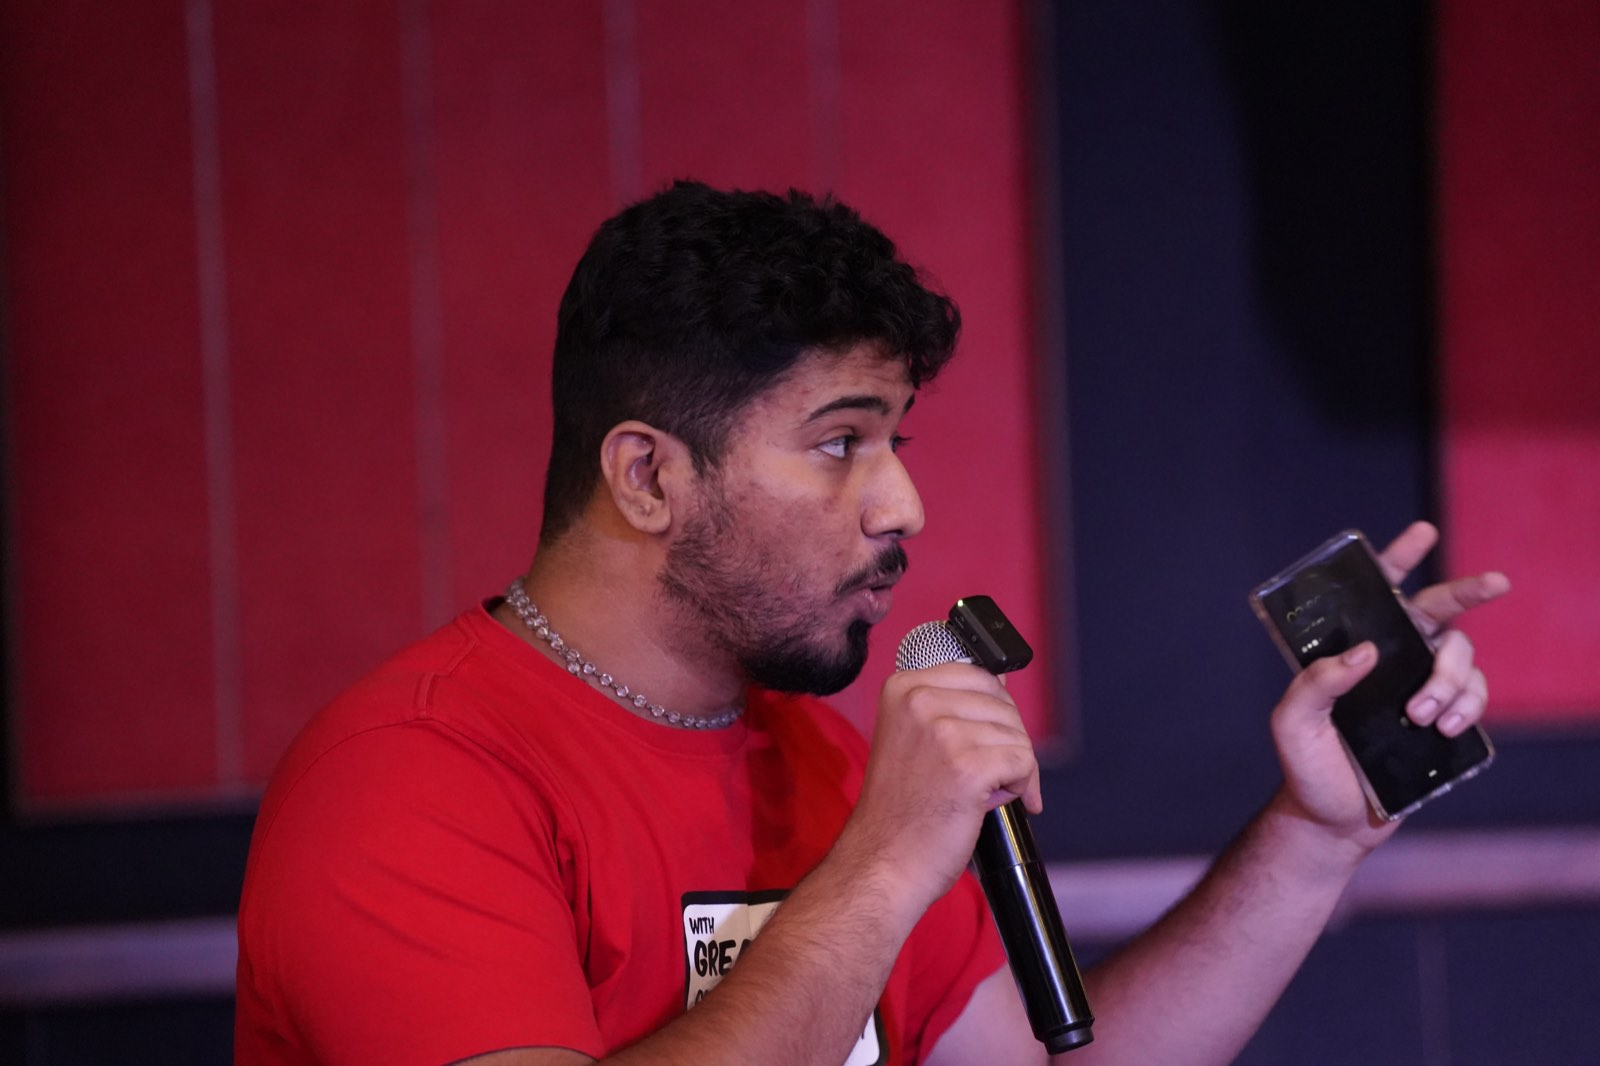
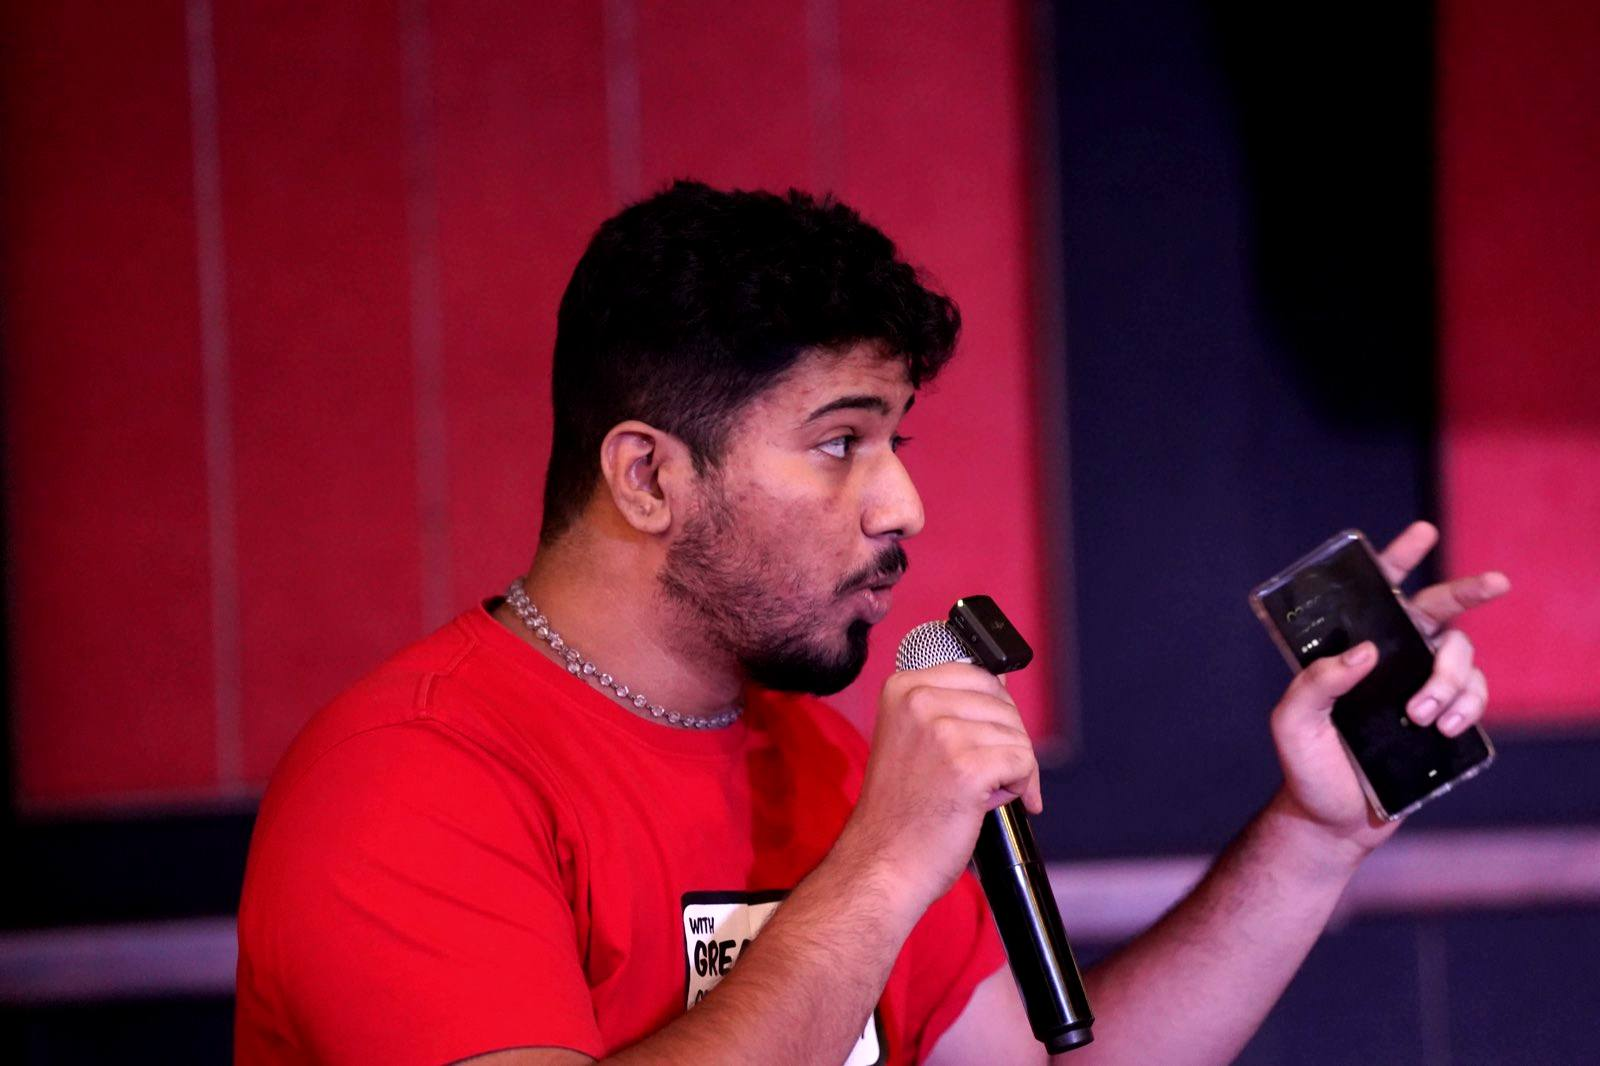
feat(partners): co-brand the fit page and make slides 5 to 7 scannable
The fit page was the deck's last text slab. It now opens on an
OpenAI x Contrarian lockup and lands on two captioned photographs,
the live room and the camera filming it, which are the page's claim.
The offer page's two blocks each shrink to one line plus the gold-dot
chip list the evidence page already uses, so 6 and 7 read as a pair
and land at a glance.

Also one headline scale across the deck (photo-overlay pages sit a
step down, like the cover), and the photo grade is baked into the
JPEGs instead of CSS filters: a filtered image cannot pass through
into the exported PDF and was being rasterized losslessly, which had
swollen the deck to 14MB. It is 3MB now.

Claude-Session: https://claude.ai/code/session_01UgZrGJ9zcV1jy1qchhzHJX

diff --git a/src/app/partners/page.module.css b/src/app/partners/page.module.css
@@ -41,8 +41,8 @@
 .tractionPage { background: var(--paper); }
 .sectionLabel { color: var(--brick); }
 .storyGrid { display: grid; grid-template-columns: 1.15fr 0.85fr; gap: clamp(44px, 9vw, 160px); }
-.intro h2, .audience h2, .fit h2, .gallery h2 { font-size: clamp(2.65rem, 5.8vw, 6.25rem); line-height: 0.92; }
-.evidence h2, .offer h2 { font-size: clamp(2.4rem, 4.6vw, 4.6rem); line-height: 0.94; }
+.intro h2, .audience h2, .fit h2, .offer h2, .gallery h2 { font-size: clamp(2.65rem, 5.8vw, 6.25rem); line-height: 0.92; }
+.evidence h2 { font-size: clamp(3.15rem, 5.6vw, 5.7rem); line-height: 0.93; }
 .storyGrid > div { max-width: 470px; font-size: 1.1rem; line-height: 1.65; }
 .storyGrid p { margin: 0 0 22px; }
 .storyGrid strong { color: var(--brick); }
@@ -81,40 +81,56 @@
 .profileGrid dt { color: var(--brick); font-size: 10px; font-weight: 800; letter-spacing: 0.14em; text-transform: uppercase; }
 .profileGrid dd { margin: 9px 0 0; font-family: var(--font-display), Georgia, serif; font-size: clamp(1.2rem, 1.75vw, 1.7rem); line-height: 1.05; letter-spacing: -0.04em; }
 
-.fit { background: var(--ink); color: #f8f1e4; }
+.fit { display: flex; flex-direction: column; justify-content: space-between; background: var(--ink); color: #f8f1e4; }
 .fit .sectionLabel { color: #f7c767; }
-
-.fitLead { max-width: 640px; margin: 30px 0 0; color: #d1c7b8; font-size: 1.1rem; line-height: 1.65; }
+.fitTop { padding: clamp(68px, 9vw, 120px) clamp(24px, 8vw, 128px) clamp(44px, 5vw, 72px); }
+.fitHeader { display: flex; align-items: flex-start; justify-content: space-between; gap: 32px; }
+.fitLockup { display: inline-flex; align-items: center; gap: 18px; margin: 0; }
+.fitPartnerMark { font-family: var(--font-ui), sans-serif; font-size: clamp(1.3rem, 1.8vw, 1.7rem); font-weight: 800; letter-spacing: -0.04em; }
+.fitLockupCross { color: #f7c767; font-size: clamp(1rem, 1.4vw, 1.3rem); }
+.fitLockup img { width: clamp(96px, 9vw, 132px); height: auto; }
+.fit h2 { max-width: 18ch; margin-top: 8px; }
+.fitLead { max-width: 560px; margin: clamp(24px, 3vw, 36px) 0 0; color: #d1c7b8; font-size: 1.1rem; line-height: 1.65; }
+.fitPanels { display: grid; grid-template-columns: repeat(2, minmax(0, 1fr)); }
+.fitPanels figure { position: relative; height: clamp(260px, 30vw, 420px); margin: 0; overflow: hidden; }
+.fitPanels img { width: 100%; height: 100%; object-fit: cover; }
+.fitPanels figcaption { position: absolute; inset: auto 0 0 0; padding: 56px clamp(24px, 4vw, 48px) 26px; background: linear-gradient(0deg, rgba(2, 3, 7, 0.88), rgba(2, 3, 7, 0.45) 60%, transparent); }
+.fitPanels strong { display: block; color: #f7c767; font-size: 11px; font-weight: 800; letter-spacing: 0.16em; text-transform: uppercase; }
+.fitPanels span { display: block; margin-top: 8px; font-family: var(--font-display), Georgia, serif; font-size: clamp(1.2rem, 1.7vw, 1.6rem); letter-spacing: -0.03em; }
 /* The two bespoke pitch pages both lead with a photograph, so the point lands
    before a word is read: the evidence page is a full-bleed frame of it already
    happening, the offer page sets the room beside the two things we would build. */
 .evidence { position: relative; display: flex; flex-direction: column; justify-content: flex-end; min-height: 620px; background: var(--ink); color: #f8f1e4; overflow: hidden; }
 .evidenceImage, .evidenceShade { position: absolute; inset: 0; width: 100%; height: 100%; }
-.evidenceImage { object-fit: cover; filter: brightness(1.16) saturate(0.94); }
+.evidenceImage { object-fit: cover; }
+/* photo grade is baked into the JPEGs: a CSS filter here forces the PDF
+   exporter to rasterize each photo losslessly and triples the file */
 .evidenceShade { background: linear-gradient(90deg, rgba(4, 6, 15, 0.93) 0%, rgba(4, 6, 15, 0.76) 36%, rgba(4, 6, 15, 0.18) 70%, rgba(4, 6, 15, 0.02) 100%), linear-gradient(0deg, rgba(2, 3, 7, 0.8), transparent 48%); }
 .evidenceCopy, .evidenceItems { position: relative; z-index: 1; }
 .evidenceCopy { width: min(720px, 100%); margin-top: auto; padding: clamp(64px, 9vw, 128px) clamp(24px, 8vw, 128px) clamp(28px, 3vw, 40px); }
 .evidence .sectionLabel { color: #f7c767; }
-.evidence h2 { max-width: 15ch; }
+.evidence h2 { max-width: 16ch; }
 .evidenceLead { max-width: 480px; margin: clamp(24px, 3vw, 36px) 0 0; font-size: 1.1rem; line-height: 1.6; }
 .evidenceKicker { margin: clamp(16px, 2vw, 24px) 0 0; color: #f7c767; font-family: var(--font-display), Georgia, serif; font-size: clamp(1.9rem, 3.2vw, 3.1rem); line-height: 1.02; letter-spacing: -0.05em; }
-.evidenceItems { display: flex; flex-wrap: wrap; gap: 10px 26px; margin: 0; padding: 0 clamp(24px, 8vw, 128px) clamp(38px, 5vw, 66px); list-style: none; }
-.evidenceItems li { display: flex; align-items: center; gap: 26px; color: rgba(248, 241, 228, 0.82); font-size: 11px; font-weight: 700; letter-spacing: 0.13em; text-transform: uppercase; }
-.evidenceItems li::after { width: 4px; height: 4px; background: #f7c767; border-radius: 50%; content: ""; }
-.evidenceItems li:last-child::after { display: none; }
+.chips { display: flex; flex-wrap: wrap; gap: 10px 22px; margin: 0; padding: 0; list-style: none; }
+.chips li { display: flex; align-items: center; gap: 22px; color: rgba(248, 241, 228, 0.82); font-size: 11px; font-weight: 700; letter-spacing: 0.13em; text-transform: uppercase; }
+.chips li::after { width: 4px; height: 4px; background: #f7c767; border-radius: 50%; content: ""; }
+.chips li:last-child::after { display: none; }
+.evidenceItems { padding: 0 clamp(24px, 8vw, 128px) clamp(38px, 5vw, 66px); }
 
 .offer { display: grid; grid-template-columns: minmax(0, 0.88fr) minmax(0, 1fr); background: var(--ink); color: #f8f1e4; }
 .offerImageWrap { position: relative; min-height: 420px; overflow: hidden; }
-.offerImage { position: absolute; inset: 0; width: 100%; height: 100%; object-fit: cover; filter: brightness(1.12) saturate(0.96); }
+.offerImage { position: absolute; inset: 0; width: 100%; height: 100%; object-fit: cover; }
 .offerCopy { padding: clamp(64px, 8vw, 116px) clamp(24px, 6vw, 96px); }
 .offer .sectionLabel { color: #f7c767; }
 .offer h2 { max-width: 14ch; }
 .offerLead { max-width: 440px; margin: clamp(20px, 2.5vw, 30px) 0 0; color: #f7c767; font-family: var(--font-display), Georgia, serif; font-size: clamp(1.3rem, 1.9vw, 1.8rem); line-height: 1.15; letter-spacing: -0.04em; }
 .offerBlocks { display: grid; gap: clamp(26px, 3vw, 38px); margin-top: clamp(34px, 4vw, 52px); padding-top: clamp(26px, 3vw, 38px); border-top: 1px solid rgba(248, 241, 228, 0.22); }
-.offerBlocks article { display: grid; grid-template-columns: auto minmax(0, 1fr); column-gap: clamp(16px, 2vw, 26px); }
-.offerNumber { grid-row: span 2; margin: 0; color: #f7c767; font-family: var(--font-display), Georgia, serif; font-size: clamp(1.2rem, 1.6vw, 1.5rem); line-height: 1.3; }
-.offerBlocks h3 { margin: 0; font-family: var(--font-display), Georgia, serif; font-size: clamp(1.5rem, 2.2vw, 2.1rem); font-weight: 500; line-height: 1; letter-spacing: -0.05em; }
+.offerBlocks article { max-width: 460px; }
+.offerNumber { margin: 0; color: #f7c767; font-family: var(--font-display), Georgia, serif; font-size: clamp(1rem, 1.3vw, 1.2rem); line-height: 1; }
+.offerBlocks h3 { margin: 8px 0 0; font-family: var(--font-display), Georgia, serif; font-size: clamp(1.5rem, 2.2vw, 2.1rem); font-weight: 500; line-height: 1; letter-spacing: -0.05em; }
 .offerBlocks p:not(.offerNumber) { max-width: 440px; margin: 10px 0 0; color: #d1c7b8; font-size: 1.02rem; line-height: 1.55; }
+.offerBlocks .chips { margin-top: 16px; }
 
 .socialProof { display: grid; grid-template-columns: minmax(280px, 0.74fr) minmax(0, 1fr); gap: clamp(52px, 10vw, 170px); align-items: center; padding: clamp(74px, 10vw, 150px) clamp(24px, 14vw, 220px); background: #dcbf84; }
 .instagramFrame { width: min(100%, 390px); justify-self: end; padding: 12px; background: #faf6ee; box-shadow: 14px 14px 0 var(--ink); }
@@ -157,6 +173,8 @@
   .profileGrid { grid-template-columns: 1fr; }
   .profileGrid > div, .profileGrid > div:nth-child(odd), .profileGrid > div:nth-child(even) { min-height: auto; padding: 18px 0; border-left: 0; }
   .offerImageWrap { min-height: 260px; }
+  .fitPanels { grid-template-columns: 1fr; }
+  .fitHeader { flex-direction: column; }
   .instagramFrame { justify-self: start; }
   .galleryHeader, .footer { grid-template-columns: 1fr; display: grid; }
   .galleryHeader { align-items: start; }
@@ -178,7 +196,7 @@
   .hero .nav { padding: 12mm 16mm; }
   .hero .logoLight { width: 42mm; }
   .hero .scrollNote { margin: 0 16mm 10mm; }
-  .intro, .elevation, .audience, .fit, .socialProof, .gallery { padding: 15mm 22mm; }
+  .intro, .elevation, .audience, .socialProof, .gallery { padding: 15mm 22mm; }
   .evidence { padding: 0; }
   .tractionPage { display: flex; flex-direction: column; }
   .tractionPage .intro { display: flex; flex-direction: column; justify-content: center; box-sizing: border-box; height: 132mm; min-height: 132mm; max-height: 132mm; padding: 12mm 22mm 10mm; overflow: hidden; }
@@ -187,21 +205,33 @@
   .tractionPage .stats article { display: block; min-width: 0; }
   .sectionLabel, .eyebrow, .elevationKicker { font-size: 8pt; }
   .intro h2, .audience h2, .fit h2, .gallery h2, .socialCopy h2 { font-size: 38pt; }
-  .evidence h2, .offer h2 { font-size: 32pt; }
+
   .storyGrid { grid-template-columns: 1.12fr 0.88fr; gap: 24mm; }
   .elevation { grid-template-columns: minmax(42mm, 0.34fr) minmax(0, 1fr); }
   .audience { grid-template-columns: minmax(0, 1fr) minmax(75mm, 0.86fr); gap: 24mm; }
-  .fit { display: flex; flex-direction: column; justify-content: center; }
-  .evidenceCopy { width: 150mm; padding: 0 22mm 6mm; }
+  .fit { padding: 0; }
+  .fitTop { padding: 15mm 22mm 10mm; }
+  .fitLead { margin-top: 7mm; }
+  .fitPanels figure { height: 84mm; }
+  .fitPanels figcaption { padding: 14mm 10mm 7mm; }
+  .fitPanels figure:first-child figcaption { padding-left: 22mm; }
+  .fitPanels span { font-size: 13pt; }
+  .fitLockup img { width: 30mm; }
+  .fitPartnerMark { font-size: 15pt; }
+  .evidence h2 { max-width: 120mm; font-size: 34pt; }
+  .evidenceCopy { width: 160mm; padding: 0 22mm 6mm; }
   .evidenceLead { max-width: 108mm; margin-top: 7mm; }
   .evidenceKicker { margin-top: 5mm; font-size: 23pt; }
-  .evidenceItems { gap: 4mm 7mm; padding: 0 22mm 16mm; }
-  .evidenceItems li { gap: 7mm; font-size: 8pt; }
+  .chips { gap: 3mm 6mm; }
+  .chips li { gap: 6mm; font-size: 8pt; }
+  .offerBlocks .chips { margin-top: 4mm; }
+  .evidenceItems { padding: 0 22mm 16mm; }
   .offer { grid-template-columns: minmax(0, 0.88fr) minmax(0, 1fr); }
   .offerCopy { display: flex; flex-direction: column; justify-content: center; padding: 15mm 18mm; }
   .offerLead { margin-top: 6mm; font-size: 15pt; }
   .offerBlocks { gap: 9mm; margin-top: 11mm; padding-top: 9mm; }
-  .offerNumber { font-size: 12pt; }
+  .offerNumber { font-size: 11pt; }
+  .offerBlocks h3 { margin-top: 2mm; }
   .offerBlocks h3 { font-size: 18pt; }
   .storyGrid > div, .evidenceLead, .offerBlocks p:not(.offerNumber), .fitLead, .socialCopy p:not(.sectionLabel), .elevation > div:last-child > p:last-child { font-size: 10.5pt; line-height: 1.45; }
   .elevation h2 { font-size: 42pt; }

diff --git a/src/app/partners/partner-brief.tsx b/src/app/partners/partner-brief.tsx
@@ -163,14 +163,56 @@ export function PartnerBrief({ partner }: { partner?: PartnerDeck }) {
       </section>
 
       <section className={styles.fit}>
-        <p className={styles.sectionLabel}>Why partner with Contrarian</p>
-        <h2>One partnership. A live room and a content engine.</h2>
-        <p className={styles.fitLead}>
-          Contrarian gives a partner rare access to a high-trust live room, then
-          carries that association into social content around the debate. The
-          result is both lived cultural relevance and a growing library of
-          moments people can discover, share and debate again.
-        </p>
+        <div className={styles.fitTop}>
+          <div className={styles.fitHeader}>
+            <p className={styles.sectionLabel}>Why partner with Contrarian</p>
+            {partner && (
+              <p className={styles.fitLockup}>
+                <span className={styles.fitPartnerMark}>{partner.name}</span>
+                <span className={styles.fitLockupCross} aria-hidden="true">
+                  ×
+                </span>
+                <Image
+                  src="/media/contrarian-logo-light.svg"
+                  alt="The Contrarian Debate Club"
+                  width={745}
+                  height={346}
+                />
+              </p>
+            )}
+          </div>
+          <h2>One partnership. A live room and a content engine.</h2>
+          <p className={styles.fitLead}>
+            Contrarian gives a partner rare access to a high-trust live room,
+            then carries that association into the content around the debate.
+          </p>
+        </div>
+        <div className={styles.fitPanels}>
+          <figure>
+            <Image
+              src="/media/room-listening.jpg"
+              alt="A full Contrarian room following the debate"
+              width={1600}
+              height={1067}
+            />
+            <figcaption>
+              <strong>The live room</strong>
+              <span>Eight sold-out debates and counting.</span>
+            </figcaption>
+          </figure>
+          <figure>
+            <Image
+              src="/media/filming-the-room.jpg"
+              alt="The room mid-debate with a camera rig filming it"
+              width={1600}
+              height={1067}
+            />
+            <figcaption>
+              <strong>The content engine</strong>
+              <span>More than a million views between shows.</span>
+            </figcaption>
+          </figure>
+        </div>
       </section>
 
       {partner?.pitch.map((page) =>
@@ -191,7 +233,7 @@ export function PartnerBrief({ partner }: { partner?: PartnerDeck }) {
               <p className={styles.evidenceLead}>{page.lead}</p>
               <p className={styles.evidenceKicker}>{page.kicker}</p>
             </div>
-            <ul className={styles.evidenceItems}>
+            <ul className={`${styles.chips} ${styles.evidenceItems}`}>
               {page.items.map((item) => (
                 <li key={item}>{item}</li>
               ))}
@@ -221,6 +263,11 @@ export function PartnerBrief({ partner }: { partner?: PartnerDeck }) {
                     </p>
                     <h3>{block.title}</h3>
                     <p>{block.body}</p>
+                    <ul className={styles.chips}>
+                      {block.points.map((point) => (
+                        <li key={point}>{point}</li>
+                      ))}
+                    </ul>
                   </article>
                 ))}
               </div>

diff --git a/src/content/partner-decks.ts b/src/content/partner-decks.ts
@@ -36,7 +36,8 @@ export type DeckPage =
       label: string;
       heading: string;
       lead: string;
-      blocks: { title: string; body: string }[];
+      /** each block: a short line, then the specifics as a scannable list */
+      blocks: { title: string; body: string; points: string[] }[];
       image: DeckImage;
     };
 
@@ -85,11 +86,21 @@ export const PARTNER_DECKS: PartnerDeck[] = [
         blocks: [
           {
             title: "In the room",
-            body: "Every event, we would actively encourage people to use ChatGPT: understand the motion, check claims, stress test audience questions and rebuttals.",
+            body: "Every event, we actively encourage the room to lean on ChatGPT.",
+            points: [
+              "Understand the motion",
+              "Check claims",
+              "Stress test questions and rebuttals",
+            ],
           },
           {
             title: "In the content",
-            body: "Not only that, we tie it into the content itself, validating and fact checking claims on screen. ChatGPT becomes an integral part of the experience.",
+            body: "Then we tie it into everything we publish.",
+            points: [
+              "Fact checks on screen",
+              "Claims validated in the clips",
+              "An integral part of the experience",
+            ],
           },
         ],
         image: {
